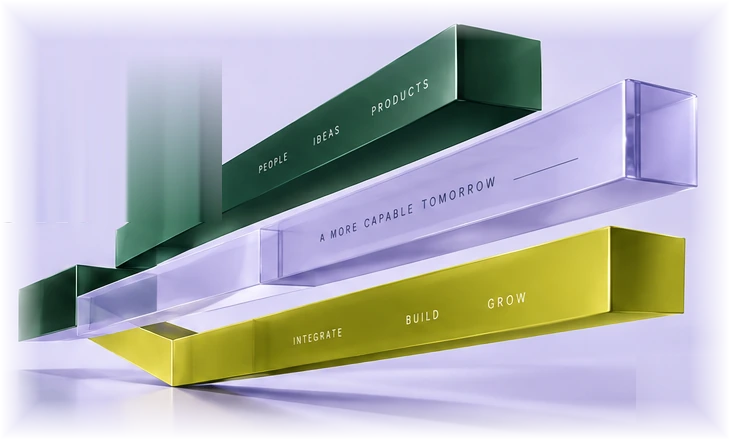
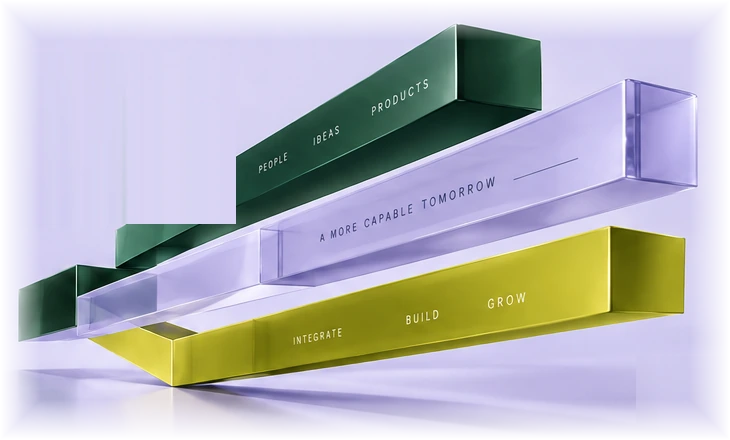
Add the offer section: AI, shaped around your workflow
Board 1's opening, placed after the passage: the lilac field, the
three glass bars right, the offer left with a navy pill that leads to
the closing contact section and a LinkedIn link beside it, the small
"same direction, brighter possibilities" column, and the rule at the
foot carrying the three numbered steps.

The bars are cut from the board. Two baked labels sat on the crop, the
end of the board's headline on the left and the small column at the
bottom right, and both are filled from the field around them so the
live text can take their place. The fill reads from the row above and,
per column, from the row below only where that row is still field,
because the green bar's top edge sits just under the headline and an
unguarded fill smeared it into a green stripe.

One paragraph is added under the board's dek so the section says what
the offer is for: fewer manual steps, faster decisions, lower running
costs, with people still in control. No figure is claimed. The Service
description in the schema is now this section's dek, the sentence the
page actually shows.

On phones the copy block dissolves into the grid so the order follows
the board's phone mockup: copy, bars, then the actions.

Two contrast corrections found by the site-wide AA scan: the step
numbers and the language separator were too faint at 11px.

Claude-Session: https://claude.ai/code/session_01Uy5rSkaG57rbsHBUgYUUs4

Changed region(s): [[0.1507, 0.1477, 0.3315, 0.5318]]

diff --git a/assets/css/ai-integration.a008cb11a957.css b/assets/css/ai-integration.a008cb11a957.css
@@ -38,7 +38,7 @@ body.ai-page {
 .ai-lang { display: inline-flex; align-items: center; gap: 10px; font: 400 14px/1.4 Inter, sans-serif; letter-spacing: .04em; }
 .ai-lang a { color: inherit; display: inline-flex; align-items: center; min-width: 32px; min-height: 44px; justify-content: center; text-decoration: none; }
 .ai-lang a[aria-current="page"] { text-decoration: underline; text-underline-offset: 8px; text-decoration-thickness: 2px; }
-.ai-lang span { opacity: .55; }
+.ai-lang span { opacity: .74; }
 .ai-page .menu-button { display: none; width: 44px; height: 44px; align-items: center; justify-content: center; padding: 10px; cursor: pointer; }
 .ai-page .w-icon-nav-menu { font-family: webflow-icons !important; font-size: 24px !important; }
 @media (min-width: 992px) {
@@ -110,3 +110,40 @@ html[lang="hu"] .ai-hero h1 { max-width: none; font-size: clamp(46px, 5vw, 94px)
   .ai-hero-art img { transform: none !important; }
 }
 html.no-motion .ai-hero-art img { transform: none !important; }
+
+/* 2. Board 1 opening: the offer on the lilac field with the three glass bars. */
+.ai-shape { position: relative; isolation: isolate; display: grid; grid-template-columns: minmax(0, 46fr) minmax(0, 54fr); grid-template-rows: minmax(0, 1fr) auto; min-height: 100svh; padding: clamp(96px, 12svh, 150px) var(--ai-gutter) 0; overflow: hidden; background: var(--ai-lilac); color: var(--ai-ink); }
+.ai-shape-copy { position: relative; z-index: 2; grid-column: 1; align-self: center; padding-bottom: clamp(56px, 8svh, 110px); }
+.ai-eyebrow-rule { display: flex; align-items: center; gap: 14px; }
+.ai-eyebrow-rule::before { content: ""; width: 28px; height: 1px; background: currentColor; }
+.ai-shape h2 { max-width: 13ch; margin-top: 26px; font-size: clamp(50px, 6vw, 104px); line-height: .92; overflow-wrap: normal; hyphens: manual; }
+html[lang="hu"] .ai-shape h2 { max-width: none; font-size: clamp(42px, 4.5vw, 84px); }
+.ai-shape-dek { max-width: 34ch; margin-top: clamp(24px, 3svh, 34px); font-size: clamp(17px, 1.35vw, 21px); line-height: 1.45; letter-spacing: -.015em; }
+.ai-shape-text { max-width: 42ch; margin-top: 16px; font-size: clamp(15px, 1.05vw, 17px); line-height: 1.55; letter-spacing: -.01em; }
+.ai-shape .ai-actions { margin-top: clamp(28px, 4svh, 44px); }
+.ai-page main a.ai-cta-pill, .ai-cta-pill { display: inline-flex; align-items: center; gap: 14px; min-height: 44px; padding: 0 24px; border: 0; border-radius: 0; color: var(--ai-lilac); background: var(--ai-navy); font: 400 14px/1.4 Inter, sans-serif; text-decoration: none; }
+a.ai-cta-pill::after { content: "\2192"; font-size: 17px; line-height: 1; }
+.ai-cta-pill:hover { text-decoration: underline; text-underline-offset: 4px; }
+.ai-shape-art { position: absolute; right: -2%; top: 6%; z-index: 1; width: 60%; pointer-events: none; }
+.ai-shape-art img { display: block; width: 100%; height: auto; transform: translateY(var(--ai-shape-y, 0px)) rotate(var(--ai-shape-rotate, 0deg)); transform-origin: 50% 70%; }
+.ai-shape-label { position: absolute; right: var(--ai-gutter); bottom: 92px; z-index: 2; text-align: right; }
+.ai-steps-rule { grid-column: 1 / -1; grid-row: 2; z-index: 2; display: grid; grid-template-columns: repeat(3, minmax(0, 1fr)); gap: 24px; list-style: none; margin: 0; padding: 18px 0 22px; border-top: 1px solid var(--ai-rule); }
+.ai-steps-rule li { display: flex; gap: 14px; }
+.ai-steps-rule li span { opacity: .74; }
+@media (max-width: 991px) {
+  /* The phone mockup stacks copy, bars, then the actions: the copy block
+     dissolves into the grid so its children can take that order. */
+  .ai-shape { display: grid; grid-template-columns: minmax(0, 1fr); grid-template-rows: none; min-height: 0; padding-top: 64px; padding-bottom: 0; }
+  .ai-shape-copy { display: contents; }
+  .ai-shape > *, .ai-shape-copy > * { grid-column: 1; }
+  .ai-shape .ai-eyebrow-rule { order: 1; }
+  .ai-shape h2 { order: 2; font-size: clamp(40px, 9.6vw, 76px); max-width: none; }
+  html[lang="hu"] .ai-shape h2 { font-size: clamp(30px, 9.2vw, 72px); }
+  .ai-shape-dek { order: 3; }
+  .ai-shape-text { order: 4; }
+  .ai-shape-art { order: 5; position: relative; inset: auto; width: 100%; margin: 28px 0 8px; }
+  .ai-shape-label { order: 6; position: static; text-align: left; }
+  .ai-shape .ai-actions { order: 7; flex-direction: column; align-items: stretch; gap: 8px; margin: 28px 0 40px; }
+  .ai-shape .ai-actions .ai-cta-pill, .ai-shape .ai-actions .ai-link-plain { justify-content: center; }
+  .ai-steps-rule { order: 8; grid-row: auto; grid-template-columns: minmax(0, 1fr); gap: 10px; }
+}

diff --git a/assets/css/ai-integration.css b/assets/css/ai-integration.css
@@ -38,7 +38,7 @@ body.ai-page {
 .ai-lang { display: inline-flex; align-items: center; gap: 10px; font: 400 14px/1.4 Inter, sans-serif; letter-spacing: .04em; }
 .ai-lang a { color: inherit; display: inline-flex; align-items: center; min-width: 32px; min-height: 44px; justify-content: center; text-decoration: none; }
 .ai-lang a[aria-current="page"] { text-decoration: underline; text-underline-offset: 8px; text-decoration-thickness: 2px; }
-.ai-lang span { opacity: .55; }
+.ai-lang span { opacity: .74; }
 .ai-page .menu-button { display: none; width: 44px; height: 44px; align-items: center; justify-content: center; padding: 10px; cursor: pointer; }
 .ai-page .w-icon-nav-menu { font-family: webflow-icons !important; font-size: 24px !important; }
 @media (min-width: 992px) {
@@ -110,3 +110,40 @@ html[lang="hu"] .ai-hero h1 { max-width: none; font-size: clamp(46px, 5vw, 94px)
   .ai-hero-art img { transform: none !important; }
 }
 html.no-motion .ai-hero-art img { transform: none !important; }
+
+/* 2. Board 1 opening: the offer on the lilac field with the three glass bars. */
+.ai-shape { position: relative; isolation: isolate; display: grid; grid-template-columns: minmax(0, 46fr) minmax(0, 54fr); grid-template-rows: minmax(0, 1fr) auto; min-height: 100svh; padding: clamp(96px, 12svh, 150px) var(--ai-gutter) 0; overflow: hidden; background: var(--ai-lilac); color: var(--ai-ink); }
+.ai-shape-copy { position: relative; z-index: 2; grid-column: 1; align-self: center; padding-bottom: clamp(56px, 8svh, 110px); }
+.ai-eyebrow-rule { display: flex; align-items: center; gap: 14px; }
+.ai-eyebrow-rule::before { content: ""; width: 28px; height: 1px; background: currentColor; }
+.ai-shape h2 { max-width: 13ch; margin-top: 26px; font-size: clamp(50px, 6vw, 104px); line-height: .92; overflow-wrap: normal; hyphens: manual; }
+html[lang="hu"] .ai-shape h2 { max-width: none; font-size: clamp(42px, 4.5vw, 84px); }
+.ai-shape-dek { max-width: 34ch; margin-top: clamp(24px, 3svh, 34px); font-size: clamp(17px, 1.35vw, 21px); line-height: 1.45; letter-spacing: -.015em; }
+.ai-shape-text { max-width: 42ch; margin-top: 16px; font-size: clamp(15px, 1.05vw, 17px); line-height: 1.55; letter-spacing: -.01em; }
+.ai-shape .ai-actions { margin-top: clamp(28px, 4svh, 44px); }
+.ai-page main a.ai-cta-pill, .ai-cta-pill { display: inline-flex; align-items: center; gap: 14px; min-height: 44px; padding: 0 24px; border: 0; border-radius: 0; color: var(--ai-lilac); background: var(--ai-navy); font: 400 14px/1.4 Inter, sans-serif; text-decoration: none; }
+a.ai-cta-pill::after { content: "\2192"; font-size: 17px; line-height: 1; }
+.ai-cta-pill:hover { text-decoration: underline; text-underline-offset: 4px; }
+.ai-shape-art { position: absolute; right: -2%; top: 6%; z-index: 1; width: 60%; pointer-events: none; }
+.ai-shape-art img { display: block; width: 100%; height: auto; transform: translateY(var(--ai-shape-y, 0px)) rotate(var(--ai-shape-rotate, 0deg)); transform-origin: 50% 70%; }
+.ai-shape-label { position: absolute; right: var(--ai-gutter); bottom: 92px; z-index: 2; text-align: right; }
+.ai-steps-rule { grid-column: 1 / -1; grid-row: 2; z-index: 2; display: grid; grid-template-columns: repeat(3, minmax(0, 1fr)); gap: 24px; list-style: none; margin: 0; padding: 18px 0 22px; border-top: 1px solid var(--ai-rule); }
+.ai-steps-rule li { display: flex; gap: 14px; }
+.ai-steps-rule li span { opacity: .74; }
+@media (max-width: 991px) {
+  /* The phone mockup stacks copy, bars, then the actions: the copy block
+     dissolves into the grid so its children can take that order. */
+  .ai-shape { display: grid; grid-template-columns: minmax(0, 1fr); grid-template-rows: none; min-height: 0; padding-top: 64px; padding-bottom: 0; }
+  .ai-shape-copy { display: contents; }
+  .ai-shape > *, .ai-shape-copy > * { grid-column: 1; }
+  .ai-shape .ai-eyebrow-rule { order: 1; }
+  .ai-shape h2 { order: 2; font-size: clamp(40px, 9.6vw, 76px); max-width: none; }
+  html[lang="hu"] .ai-shape h2 { font-size: clamp(30px, 9.2vw, 72px); }
+  .ai-shape-dek { order: 3; }
+  .ai-shape-text { order: 4; }
+  .ai-shape-art { order: 5; position: relative; inset: auto; width: 100%; margin: 28px 0 8px; }
+  .ai-shape-label { order: 6; position: static; text-align: left; }
+  .ai-shape .ai-actions { order: 7; flex-direction: column; align-items: stretch; gap: 8px; margin: 28px 0 40px; }
+  .ai-shape .ai-actions .ai-cta-pill, .ai-shape .ai-actions .ai-link-plain { justify-content: center; }
+  .ai-steps-rule { order: 8; grid-row: auto; grid-template-columns: minmax(0, 1fr); gap: 10px; }
+}

diff --git a/hu/ai-integracio.html b/hu/ai-integracio.html
@@ -52,7 +52,7 @@
       "@type": "Service",
       "@id": "https://www.barnanorbert.com/hu/ai-integracio#service",
       "name": "AI-integráció vállalkozásoknak",
-      "description": "A csapatod munkamódszerére építve.",
+      "description": "A feltárástól az integrációig: gyakorlatias AI-megoldások, amelyek illeszkednek a termékedhez, a csapatodhoz és a felhasználóidhoz.",
       "serviceType": ["AI-integráció", "AI-termékfejlesztés", "Egyedi termék- és webfejlesztés"],
       "url": "https://www.barnanorbert.com/hu/ai-integracio",
       "provider": {
@@ -71,7 +71,7 @@
 <script defer src="/assets/js/analytics-config.js"></script>
 <script defer src="/assets/js/consent.js"></script>
 <script defer src="/assets/js/analytics.js"></script>
-<link rel="stylesheet" href="/assets/css/editorial-sections.ceb17cbc7006.css"/><link rel="stylesheet" href="/assets/css/compact-navigation.fb6816aa62f3.css"/><link rel="stylesheet" href="/assets/css/ai-integration.28bb0bc7ae22.css"/></head>
+<link rel="stylesheet" href="/assets/css/editorial-sections.ceb17cbc7006.css"/><link rel="stylesheet" href="/assets/css/compact-navigation.fb6816aa62f3.css"/><link rel="stylesheet" href="/assets/css/ai-integration.a008cb11a957.css"/></head>
 <body class="ai-page">
 <a class="skip-to-content" href="#main-content">Ugrás a tartalomhoz</a>
 <div class="navbar w-nav" lang="en" role="banner"><div class="container w-container"><div class="nav-wrap dark"><a aria-label="Norbert Barna — Home" class="nav-logo-wrap logo w-nav-brand" href="/"><img alt="Norbert Barna" decoding="async" src="/assets/images/68f9e9de8ed08e31e52c4188_NB.svg" width="62" height="34"/></a><button type="button" class="menu-button w-nav-button" aria-label="Open navigation" aria-controls="primary-navigation" aria-expanded="false"><span class="w-icon-nav-menu"></span></button><nav id="primary-navigation" class="nav-menu w-nav-menu" role="navigation" aria-label="Main navigation"><div class="nav-menu-area"><a class="nav-link w-nav-link" href="/works">Works</a><a class="nav-link w-nav-link" href="/about">About</a><div class="ai-lang"><a href="/ai-integration" hreflang="en" lang="en" aria-label="English">EN</a><span aria-hidden="true">|</span><a href="/hu/ai-integracio" hreflang="hu" lang="hu" aria-current="page" aria-label="Magyar">HU</a></div></div></nav></div></div></div>
@@ -88,6 +88,18 @@
 <div class="ai-hero-art" data-ai-hero-art aria-hidden="true"><img src="/assets/images/ai/passage.webp" width="528" height="534" alt="" fetchpriority="high" decoding="async"/></div>
 <ul class="ai-triad ai-eyebrow"><li>Emberek</li><li>Termékek</li><li>Lehetőségek</li></ul>
 </header>
+<section class="ai-shape" id="shaped" data-ai-shape aria-labelledby="shaped-title">
+<div class="ai-shape-copy">
+<p class="ai-eyebrow ai-eyebrow-rule">AI-integráció</p>
+<h2 id="shaped-title">AI, a munkafolyamatodra szabva.</h2>
+<p class="ai-shape-dek">A feltárástól az integrációig: gyakorlatias AI-megoldások, amelyek illeszkednek a termékedhez, a csapatodhoz és a felhasználóidhoz.</p>
+<p class="ai-shape-text">A legtöbb csapatnak nem több technológia kell. Kevesebb kézi lépés, gyorsabb döntések és alacsonyabb működési költség, úgy, hogy az eredmény felett továbbra is ember dönt. Ezt kell adnia egy AI-integrációnak, és ez a már meglévő munkádból indul ki.</p>
+<div class="ai-actions"><a class="ai-cta-pill" href="#work-better">Projekt egyeztetése</a><a class="ai-link-plain" href="https://www.linkedin.com/in/barna-norbert/" target="_blank" rel="noopener noreferrer" aria-label="LinkedIn-profilom (új lapon nyílik meg)">LinkedIn</a></div>
+</div>
+<div class="ai-shape-art" data-ai-shape-art aria-hidden="true"><img src="/assets/images/ai/bars.webp" width="730" height="440" alt="" loading="lazy" decoding="async"/></div>
+<div class="ai-eyebrow ai-shape-label">Egy irányba<br>Fényesebb<br>Lehetőségek</div>
+<ol class="ai-steps-rule ai-eyebrow"><li><span aria-hidden="true">01</span>Feltárás</li><li><span aria-hidden="true">02</span>AI-együttműködés</li><li><span aria-hidden="true">03</span>Egyedi fejlesztés</li></ol>
+</section>
 <section class="ai-better" id="work-better" aria-labelledby="better-title">
 <h2 id="better-title">Mi működhetne jobban?</h2>
 <p class="ai-better-dek">Az új lehetőségek egy beszélgetéssel kezdődnek.</p>

diff --git a/ai-integration.html b/ai-integration.html
@@ -52,7 +52,7 @@
       "@type": "Service",
       "@id": "https://www.barnanorbert.com/ai-integration#service",
       "name": "AI integration for businesses",
-      "description": "Built around the way your team works.",
+      "description": "From discovery to integration: practical AI solutions that fit your product, your team and your users.",
       "serviceType": ["AI integration", "AI product development", "Custom product and web development"],
       "url": "https://www.barnanorbert.com/ai-integration",
       "provider": {
@@ -71,7 +71,7 @@
 <script defer src="/assets/js/analytics-config.js"></script>
 <script defer src="/assets/js/consent.js"></script>
 <script defer src="/assets/js/analytics.js"></script>
-<link rel="stylesheet" href="/assets/css/editorial-sections.ceb17cbc7006.css"/><link rel="stylesheet" href="/assets/css/compact-navigation.fb6816aa62f3.css"/><link rel="stylesheet" href="/assets/css/ai-integration.28bb0bc7ae22.css"/></head>
+<link rel="stylesheet" href="/assets/css/editorial-sections.ceb17cbc7006.css"/><link rel="stylesheet" href="/assets/css/compact-navigation.fb6816aa62f3.css"/><link rel="stylesheet" href="/assets/css/ai-integration.a008cb11a957.css"/></head>
 <body class="ai-page">
 <a class="skip-to-content" href="#main-content">Skip to content</a>
 <div class="navbar w-nav" role="banner"><div class="container w-container"><div class="nav-wrap dark"><a aria-label="Norbert Barna — Home" class="nav-logo-wrap logo w-nav-brand" href="/"><img alt="Norbert Barna" decoding="async" src="/assets/images/68f9e9de8ed08e31e52c4188_NB.svg" width="62" height="34"/></a><button type="button" class="menu-button w-nav-button" aria-label="Open navigation" aria-controls="primary-navigation" aria-expanded="false"><span class="w-icon-nav-menu"></span></button><nav id="primary-navigation" class="nav-menu w-nav-menu" role="navigation" aria-label="Main navigation"><div class="nav-menu-area"><a class="nav-link w-nav-link" href="/works">Works</a><a class="nav-link w-nav-link" href="/about">About</a><div class="ai-lang"><a href="/ai-integration" hreflang="en" lang="en" aria-current="page" aria-label="English">EN</a><span aria-hidden="true">|</span><a href="/hu/ai-integracio" hreflang="hu" lang="hu" aria-label="Magyar">HU</a></div></div></nav></div></div></div>
@@ -88,6 +88,18 @@
 <div class="ai-hero-art" data-ai-hero-art aria-hidden="true"><img src="/assets/images/ai/passage.webp" width="528" height="534" alt="" fetchpriority="high" decoding="async"/></div>
 <ul class="ai-triad ai-eyebrow"><li>People</li><li>Products</li><li>Possibilities</li></ul>
 </header>
+<section class="ai-shape" id="shaped" data-ai-shape aria-labelledby="shaped-title">
+<div class="ai-shape-copy">
+<p class="ai-eyebrow ai-eyebrow-rule">AI integration</p>
+<h2 id="shaped-title">AI, shaped around your workflow.</h2>
+<p class="ai-shape-dek">From discovery to integration: practical AI solutions that fit your product, your team and your users.</p>
+<p class="ai-shape-text">Most teams do not need more technology. They need fewer manual steps, faster decisions and lower running costs, with people still in control of the outcome. That is what AI integration should deliver, and it starts with the work you already do.</p>
+<div class="ai-actions"><a class="ai-cta-pill" href="#work-better">Discuss your project</a><a class="ai-link-plain" href="https://www.linkedin.com/in/barna-norbert/" target="_blank" rel="noopener noreferrer" aria-label="Find me on LinkedIn (opens in a new tab)">LinkedIn</a></div>
+</div>
+<div class="ai-shape-art" data-ai-shape-art aria-hidden="true"><img src="/assets/images/ai/bars.webp" width="730" height="440" alt="" loading="lazy" decoding="async"/></div>
+<div class="ai-eyebrow ai-shape-label">Same direction<br>Brighter<br>Possibilities</div>
+<ol class="ai-steps-rule ai-eyebrow"><li><span aria-hidden="true">01</span>Discovery</li><li><span aria-hidden="true">02</span>AI collaboration</li><li><span aria-hidden="true">03</span>Custom development</li></ol>
+</section>
 <section class="ai-better" id="work-better" aria-labelledby="better-title">
 <h2 id="better-title">What could work better?</h2>
 <p class="ai-better-dek">New opportunities start with a conversation.</p>
